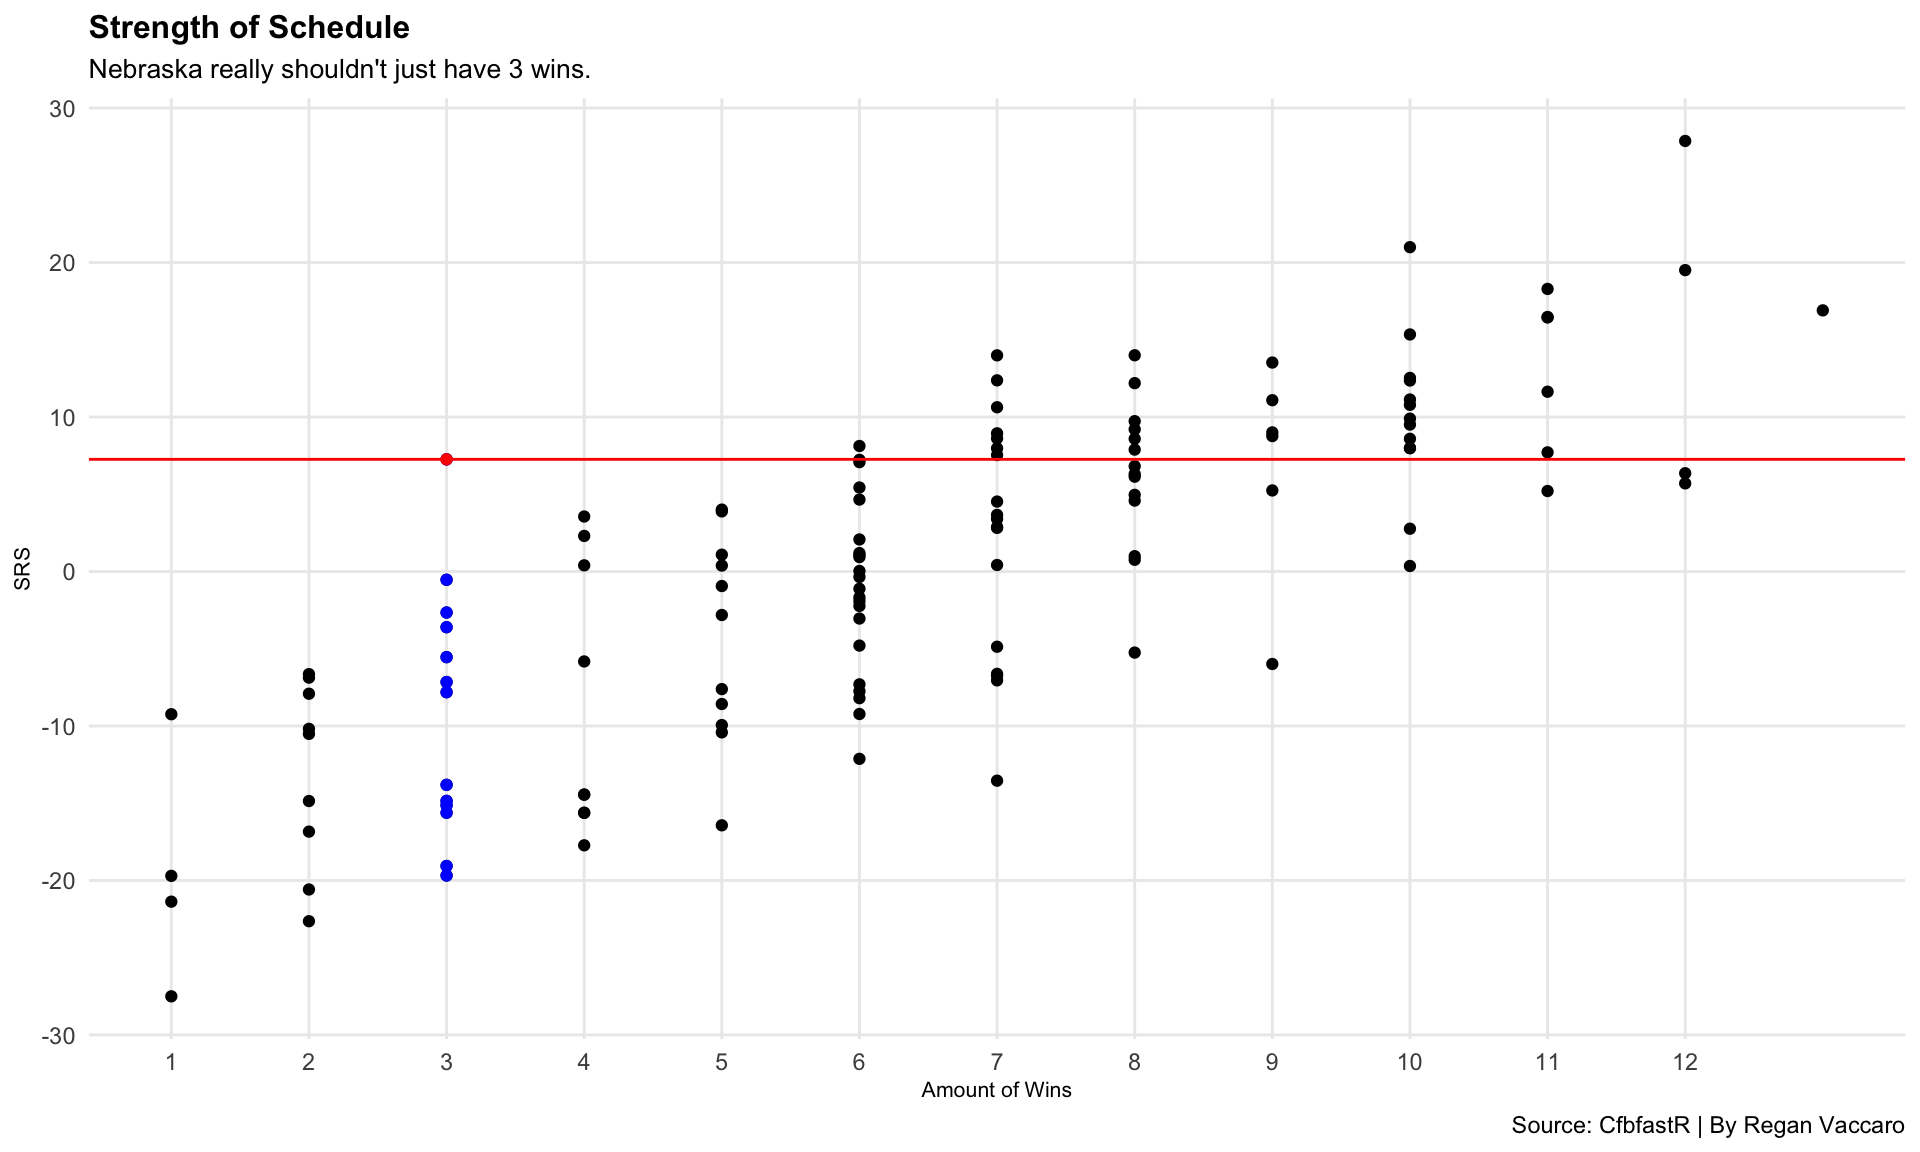
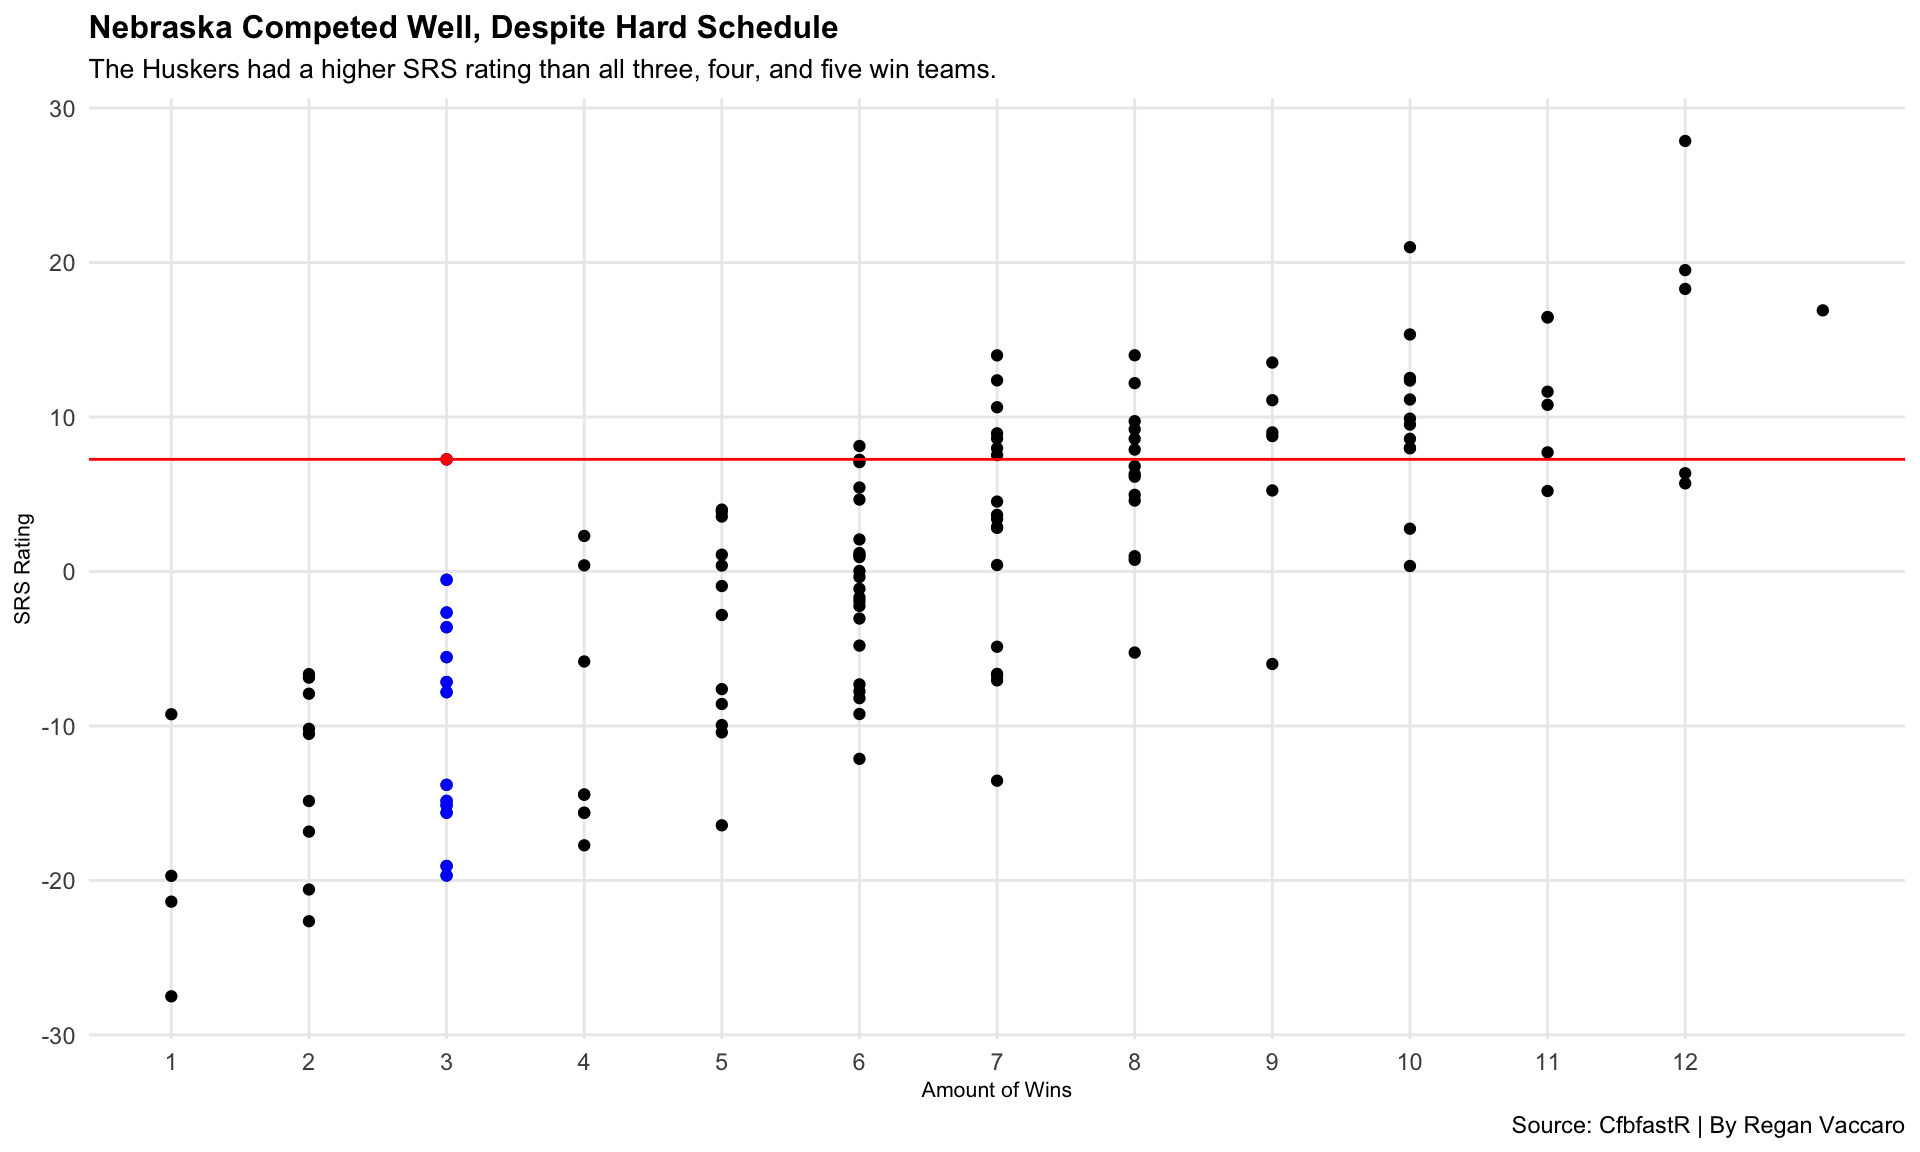
YAY

Changed region(s): [[0.0312, 0.0, 0.5, 0.0938], [0.0, 0.4375, 0.0312, 0.5312]]

diff --git a/2021/12/02/is-nebraska-the-best-3-win-team-in-college-football/index.html b/2021/12/02/is-nebraska-the-best-3-win-team-in-college-football/index.html
@@ -62,7 +62,7 @@
 
   <article class="article">
     
-    <span class="article-duration">3 min read</span>
+    <span class="article-duration">6 min read</span>
     
 
     <h1 class="article-title">Is Nebraska the best 3 win team in college football?</h1>
@@ -76,9 +76,13 @@
 <script src="http://reganvaccaro.github.io/2021/12/02/is-nebraska-the-best-3-win-team-in-college-football/index_files/header-attrs/header-attrs.js"></script>
 
 
+<p>Nebraska won 3 games this year. They should have won more.</p>
+<p>Even with such a disappointing record, the 2021 Nebraska football team competed shockingly well against their opponents. They are even being debated as one of the best 3-9 college football teams to ever play the game. Each game ended with a single digit point differential and the season’s record could have been drastically different with a difference of outcome for even a few plays. From losing to the Big Ten champs by a field goal, to the disappointing last quarter loss to Iowa, Nebraska’s season has been a truly exciting one.</p>
+<p>To find out if all of the hype around this football team if true, let’s look at some statistics. First I will start by uploading the necessary libraries to execute code.</p>
 <pre class="r"><code>library(tidyverse)
 library(cfbfastR)
 library(ggbump)</code></pre>
+<p>To see just how close Nebraska’s games were, let’s look at each individual drive of their 2021 season.</p>
 <pre class="r"><code>yr &lt;- cfbfastR:::most_recent_season()
 pbp &lt;- cfbfastR::load_cfb_pbp(yr)</code></pre>
 <pre class="r"><code>team_info = cfbfastR::cfbd_team_info(year = yr)
@@ -90,6 +94,7 @@ team_colors_logos = team_info %&gt;%
   slice(1) %&gt;% 
   ungroup()</code></pre>
 <pre class="r"><code>nudrives &lt;- cfbd_drives(2021, team = &quot;Nebraska&quot;)</code></pre>
+<p>Here I categorized each drive result into different categories based on the overall positivity of the drive. For instance, A touchdown would be categorized as “good” and a interception for a touchdown against them would be a “disaster”.</p>
 <pre class="r"><code>nudrives &lt;- nudrives %&gt;% mutate(
   chart_yards = case_when(
   defense == &quot;Nebraska&quot; ~ as.numeric(yards)*-1,
@@ -113,6 +118,7 @@ team_colors_logos = team_info %&gt;%
   drive_result == &quot;PUNT TD&quot; ~ &quot;Disaster&quot;,
   drive_result == &quot;SF&quot; ~ &quot;Disaster&quot;,
   drive_result == &quot;TD&quot; ~ &quot;Good&quot;))</code></pre>
+<p>Next, I made a series of graphs that looks at the positivity of each drive for each game of the 2021 season. Positive drives are marked as green and negative plays, red. Disastrous plays are purple and neutral are gray. The chart also shows the corresponding amount of yards that play was associated with. On the right side of the Y axis shows Nebraska’s plays and the left does the same with Nebraska’s opponent for each given game.</p>
 <pre class="r"><code>ggplot() + geom_bar(data=nudrives, aes(x=drive_number, weight=chart_yards, fill=simple_drive_result )) +
   scale_fill_manual(values=c(&quot;red&quot;,&quot;mediumorchid4&quot;,&quot;darkgreen&quot;, &quot;gray&quot;))+
   coord_flip() + scale_x_reverse() + facet_wrap(~Opponent)+
@@ -128,7 +134,9 @@ team_colors_logos = team_info %&gt;%
     plot.subtitle = element_text(size=10),
     panel.grid.minor = element_blank())</code></pre>
 <p><img src="http://reganvaccaro.github.io/2021/12/02/is-nebraska-the-best-3-win-team-in-college-football/index_files/figure-html/unnamed-chunk-6-1.png" width="960" />
-Nebraska had a net point differential of 0.</p>
+Nebraska ended their season having scored 314 points and only 244 points were scored against them. That left them with a +70 overall for the season. In Big Ten play, they had a +7 in points scores versus points allowed. The graphs above show these statistics very accurately. For their wins against Buffalo, Fordham, &amp; Northwestern, the graphs show mostly green. For every other game, it is a different story. For each good drive, it seemed like there was an equal and opposite drive in the opposing team’s favor. That doesn’t discount all of the good that Nebraska played in the season, however.The graph shows that Nebraska competed well, but had major problems in sealing the deal in the end.</p>
+<p>It’s understood that the Huskers played well, but how tough was the competition?
+Next, I want to look at the SRS (Simple Rating System) rating that takes into account a team’s average scoring margin as well as the strength of schedule. The higher the rating, the harder the schedule was along with point differential.</p>
 <pre class="r"><code>ratings &lt;- cfbd_ratings_srs(year = 2021)
 records &lt;- cfbd_game_records(2021)
 ratingsvswins &lt;- records %&gt;% left_join(ratings, by=&quot;team&quot;)</code></pre>
@@ -136,15 +144,16 @@ ratingsvswins &lt;- records %&gt;% left_join(ratings, by=&quot;team&quot;)</code
   filter(total_wins == &quot;3&quot;)</code></pre>
 <pre class="r"><code>nebraska &lt;-ratingsvswins %&gt;%
   filter(team == &quot;Nebraska&quot;)</code></pre>
+<p>To see if Nebraska was actually the best 3 win team, we will need to see the SRS of every 3 win college football team.</p>
 <pre class="r"><code>ggplot() + 
   geom_point(data=ratingsvswins, aes(x=total_wins, y=rating)) +
   geom_point(data=threewinteams, aes(x=total_wins, y=rating), color=&quot;blue&quot;)+
   geom_point(data=nebraska, aes(x=total_wins, y=rating), color=&quot;red&quot;)+
   geom_hline(yintercept = 7.25961800,color = &quot;red&quot;) +
   scale_x_continuous(breaks = c(1,2,3,4,5,6,7,8,9,10,11,12))+
-labs(x=&quot;Amount of Wins&quot;, y=&quot;SRS&quot;,
-       title=&quot;Strength of Schedule&quot;,
-       subtitle=&quot;Nebraska really shouldn&#39;t just have 3 wins.&quot;,
+labs(x=&quot;Amount of Wins&quot;, y=&quot;SRS Rating&quot;,
+       title=&quot;Nebraska Competed Well, Despite Hard Schedule&quot;,
+       subtitle=&quot;The Huskers had a higher SRS rating than all three, four, and five win teams.&quot;,
        caption=&quot;Source: CfbfastR | By Regan Vaccaro&quot;) +
   theme_minimal() +
   theme(
@@ -153,7 +162,10 @@ labs(x=&quot;Amount of Wins&quot;, y=&quot;SRS&quot;,
     plot.subtitle = element_text(size=10),
     panel.grid.minor = element_blank(),
     )</code></pre>
-<p><img src="http://reganvaccaro.github.io/2021/12/02/is-nebraska-the-best-3-win-team-in-college-football/index_files/figure-html/unnamed-chunk-10-1.png" width="960" /></p>
+<p><img src="http://reganvaccaro.github.io/2021/12/02/is-nebraska-the-best-3-win-team-in-college-football/index_files/figure-html/unnamed-chunk-10-1.png" width="960" />
+From this chart, it can be seen that Nebraska had an SRS of 7.25 which is well above EVERY single 3 win team. That means that Nebraska had both a higher point differential and a much harder competition than each of their friends with only 3 wins. This data singlehandedly answers the question that Nebraska is the best 3 win football team in 2021.</p>
+<p>It does, however, bring up the idea that Nebraska should have won many more games than they did. This is because they have a higher rating than not only the 1,2, and 3 win teams, but also more than all 4,5, and most of 6 win teams. This should statistically put Nebraska’s record at an at least 6 or 7 win season.</p>
+<p>To prove this, we can look at Husker’s win probability throughout the season.</p>
 <pre class="r"><code>nebraskahomegames &lt;- cfbd_metrics_wp_pregame(
   year = 2021,
   team = &quot;Nebraska&quot;,
@@ -186,7 +198,7 @@ scale_x_continuous(breaks = c(1,2,3,4,5,6,7,8,9,10,11,12,13))+
 geom_point(data=nebraskagames, aes(x=week, y=nebraska_win_prob,color = Outcome), size = 4)+
 scale_color_manual(values = c(&quot;red&quot;, &quot;darkgreen&quot;))+
   labs(x=&quot;Week&quot;, y=&quot;Nebraska Win Probability&quot;,
-       title=&quot;Let&#39;s look at Nebraska&#39;s Win Probability Throughout The Season &quot;,
+       title=&quot;Heartbreak Huskers &quot;,
        subtitle=&quot;Nebraska won three games, but should have won more.&quot;,
        caption=&quot;Source: CfbfastR | By Regan Vaccaro&quot;) +
   theme_minimal() +
@@ -196,7 +208,9 @@ scale_color_manual(values = c(&quot;red&quot;, &quot;darkgreen&quot;))+
     plot.subtitle = element_text(size=10),
     panel.grid.minor = element_blank(),
     )</code></pre>
-<p><img src="http://reganvaccaro.github.io/2021/12/02/is-nebraska-the-best-3-win-team-in-college-football/index_files/figure-html/unnamed-chunk-14-1.png" width="960" /></p>
+<p><img src="http://reganvaccaro.github.io/2021/12/02/is-nebraska-the-best-3-win-team-in-college-football/index_files/figure-html/unnamed-chunk-14-1.png" width="960" />
+In the games that the Huskers won, they had a pre-game win probability of 75% or over, in other games Nebraska’s victory was less predictable but still favored in four of the other nine games. Had Nebraska won the other games in which they were favored to win, the season record would have been 7-5.</p>
+<p>Ultimately if you ask any Husker fan, I bet they would tell you that the 2021 football season didn’t feel like a 3 win season. In the end, it statistically shouldn’t have looked like one either. The Heartbreak Huskers may as well just be the new team name. It will be up to the 2022 team to change that narrative.</p>
 
     </div>
   </article>
